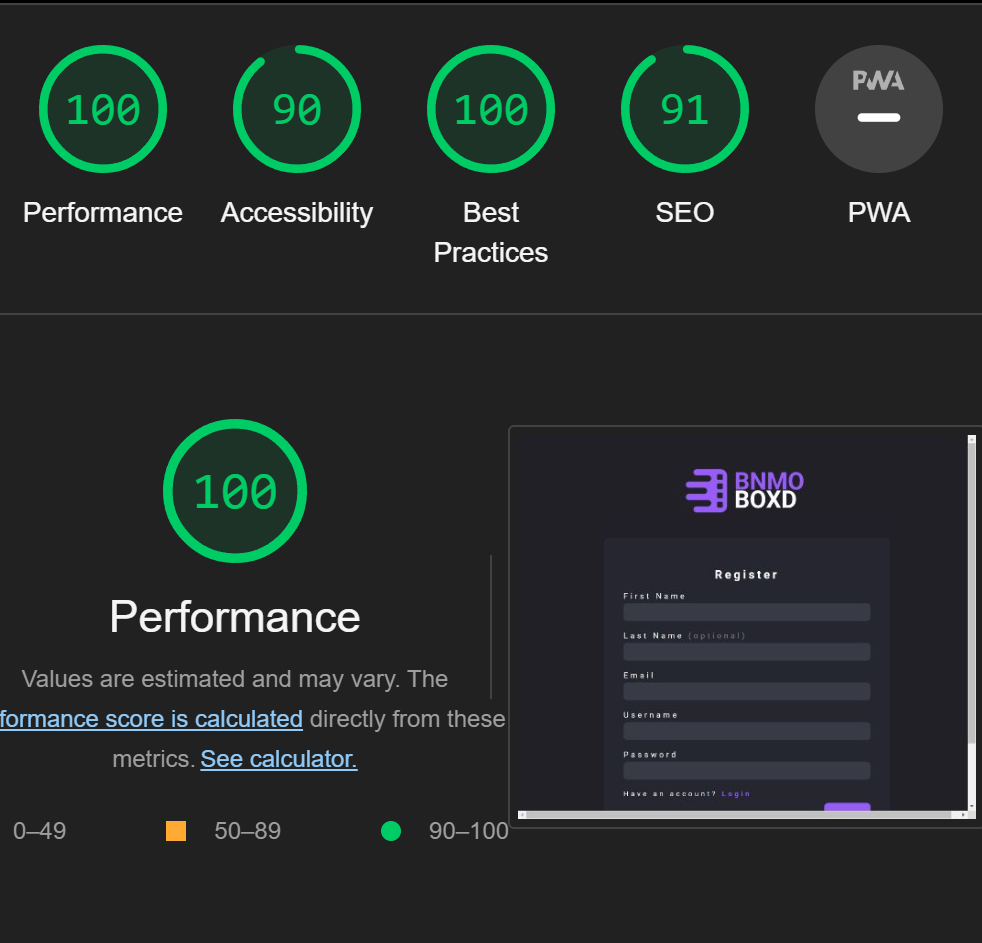
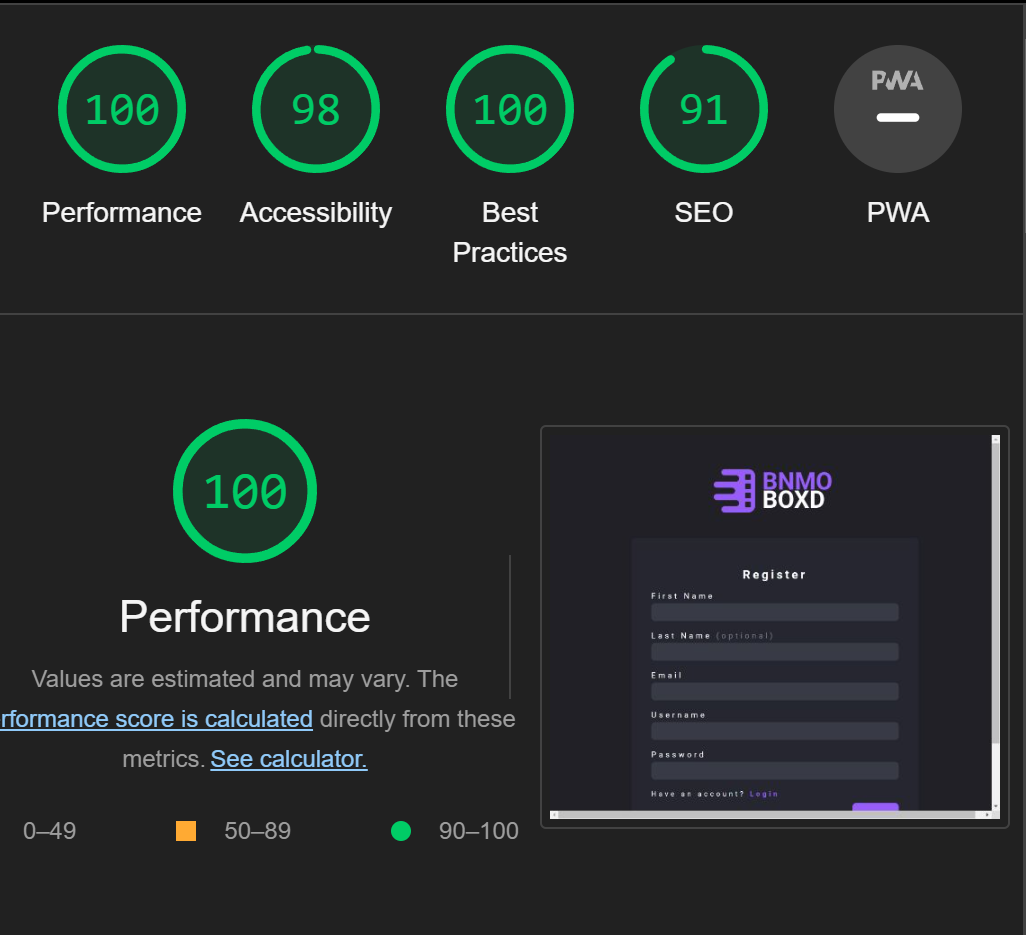
Improve lighthouse score on register page

diff --git a/src/views/auth/register.php b/src/views/auth/register.php
@@ -5,7 +5,7 @@
         <form class="form-container" id="register-form">
             <div class="form-group">
                 <label for="first_name">First Name</label>
-                <input type="text" id="first-name" name="first_name" formnovalidate>
+                <input type="text" id="first_name" name="first_name" formnovalidate>
                 <label class="form-error" id="first-name-form-error"></label>
             </div>
             <div class="form-group">

diff --git a/README.md b/README.md
@@ -14,6 +14,7 @@ Ada tiga level yang akan digunakan untuk mengklasifikasikan hak akses dari fitur
 3. Admin (Hanya admin yang dapat mengkases)
 
 Berikut adalah fitur-fitur yang ada beserta klasifikasi hak aksesnya:
+
 All
 - Menampilkan rekomendasi film
 - Melihat detail film (judul, poster, deskripsi, review, genre, direktor, dan trailer)
